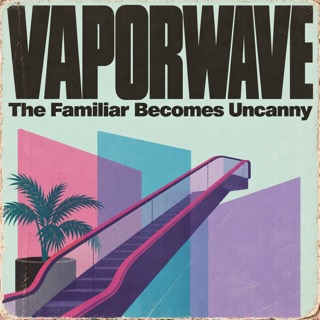
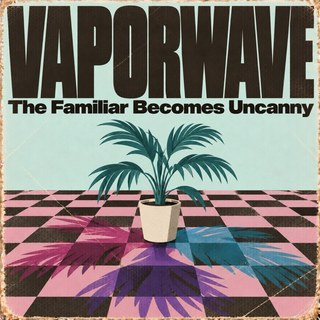
Cover art for 13 of the 15 new playlists
Read off the images themselves, which arrived as UUID filenames, and
named to the set's hyphenated convention: alternative-r-and-b, pluggnb,
phonk, ukg-jungle-pop-revival, trap-metal, drift-phonk, rage,
vaporwave, plugg, trap-soul, alte, sigilkore, brazilian-phonk.

Resized 640 to 320 to match every other cover in art/, and kept to the
set's weight: 23-33KB against an existing median of 35KB and max of
47KB. The page already loads 300 of these, so a batch at four times
the weight would have been felt.

Vaporwave is a replacement rather than a gap: it had the escalator
rendition and this batch carries the checkerboard one. The old file is
in git history if it was the keeper.

Playlisted styles without art drop from 20 to 8. Lo-fi Indie and
Future Funk are the two from the last batch still missing, alongside
Detroit Techno, Krautrock, Rock and Roll, Roots Rock, Latin Rock and
2 Tone.

Every cover was opened in a browser and confirmed loading at 320px in
the panel, rather than trusting the file copy.

Claude-Session: https://claude.ai/code/session_019QvCWpmvb1GAnVxWrsvr8q

diff --git a/index.html b/index.html
@@ -1641,7 +1641,7 @@ const DESC = {"synthpunk":"The guitar handed over to a cheap synthesiser, the sa
 "jangle":"Guitars that chime rather than crunch, Rickenbackers and melody over modest arrangements.",
 "nyhc":"New York hardcore, heavier and slower than its peers with a street-level crew mentality.",
 "speedmetal":"Metal played at the limit, precise fast riffing without thrash's abrasiveness."};
-const COVER = {"broadway":"musical_theater","tinpan":"popular_song","retro_soul":"soul_now","worldbeat":"global_music","newjerk":"jerk","electro":"electro","oldschool":"old-school-hip-hop","chiptune":"chiptune","christianhh":"christian-hip-hop","conscious":"conscious-hip-hop","electroclash":"electroclash","freestyle":"freestyle","golden":"golden-age-hip-hop","hardcore_hh":"hardcore-hip-hop","idm":"idm","kpop":"k-pop","miamibass":"miami-bass","njs":"new-jack-swing","newschool":"new-school-hip-hop","ragga":"ragga-digital-dancehall","raprock":"rap-rock","synthpunk":"synth-punk","altmetal":"alternative-metal","crossover":"crossover-thrash","deathmetal":"death-metal","doom":"doom-metal","funkmetal":"funk-metal","glammetal":"glam-metal","grind":"grindcore","groove":"groove-metal","industrial_metal":"industrial-metal","post_metal":"post-metal","powermetal":"power-metal","sludge":"sludge-metal","speedmetal":"speed-metal","heavymetal":"heavy-metal","anarcho":"anarcho-punk","arena":"arena-rock-aor","bachata":"bachata","bedroompop":"bedroom-pop","bossa":"bossa-nova","chachacha":"cha-cha-cha","citypop":"city-pop","corrido":"corrido","countryrock":"country-rock","cowpunk":"cowpunk","dancepunk":"dance-punk","danzon":"danzon","darkwave":"darkwave","easycore":"easycore","egg_punk":"egg-punk","emo_revival":"emo-revival","frat":"frat-rock","garage_revival":"garage-rock-revival","glam":"glam-rock","gogo":"go-go","grungegaze":"grungegaze","heartland":"heartland-rock","indietronica":"indietronica","industrial_rock":"industrial-rock","boogaloo":"latin-boogaloo","mambo":"mambo","merseybeat":"merseybeat","minneapolis":"minneapolis-sound","modern_funk":"modern-funk","neopsych":"neo-psychedelia","nerdcore":"nerdcore","oi":"oi-street-punk","pfunk":"p-funk","paisley":"paisley-underground","postdisco":"post-disco-boogie","postpunk_revival":"post-punk-revival","psych_soul":"psychedelic-soul","rockabilly":"rockabilly","salsa":"salsa","skatepunk":"skate-punk","skiffle":"skiffle","softrock":"soft-rock","son":"son-cubano","surf":"surf-rock","electrofunk":"synth-funk","tropicalia":"tropicalia","twotone":"2-tone","acidjazz":"acid-jazz","afrocuban_jazz":"afro-cuban-jazz","altcountry":"alt-country","altpop":"alt-pop","americana":"americana","antifolk":"anti-folk","appalachian":"appalachian-folk","artrock":"art-rock","baroquepop":"baroque-pop","bebop":"bebop","blueeyed":"blue-eyed-soul","bluesrock":"blues-rock","british_blues":"british-blues","invasion":"british-invasion","brocountry":"bro-country","chamberpop":"chamber-pop","chicago_blues":"chicago-blues","chicago_soul":"chicago-soul","chillwave":"chillwave","cool":"cool-jazz","blues":"country-blues","countrypop":"country-pop","countrytrap":"country-trap","countrypolitan":"countrypolitan","crunkcore":"crunkcore-scene","delta":"delta-blues","digicore":"digicore","blues_revival":"electric-blues-revival","texas_blues":"electric-texas-blues","electropop":"electropop","emopop":"emo-pop","emorap":"emo-rap","folkrevival":"folk-revival","folkrock":"folk-rock","freakfolk":"freak-folk","freejazz":"free-jazz","gospel":"gospel","hardbop":"hard-bop","hardrock":"hard-rock","honkytonk":"honky-tonk","hyperpop":"hyperpop","hypnagogic":"hypnagogic-pop","indiefolk":"indie-folk","indiepop":"indie-pop","jamband":"jam-band","jamgrass":"jamgrass","jazzfunk":"jazz-funk","fusion":"jazz-fusion","jerk":"jerkin","loft":"loft-jazz","modal":"modal-jazz","nashville":"nashville-sound","neobop":"neo-bop-young-lions","neotrad":"neotraditional-country","jazz_new":"new-jazz-crossover","jazz_early":"new-orleans-jazz","nowave":"no-wave","noisepop":"noise-pop","nwobhm":"nwobhm","oldtime":"old-time-hillbilly","outlaw":"outlaw-country","poppunk":"pop-punk","postbop":"post-bop","prog":"prog-rock","newgrass":"progressive-bluegrass-newgrass","psychfolk":"psychedelic-folk","psych_rock":"psychedelic-rock","psychobilly":"psychobilly","quiet_storm":"quiet-storm","redirt":"red-dirt","newoutlaw":"red-dirt-revival-new-outlaw","reggae":"reggae","riotgrrrl":"riot-grrrl","singer_songwriter":"singer-songwriter","slowcore":"slowcore","smoothjazz":"smooth-jazz","soul_blues":"soul-blues","souljazz":"soul-jazz","scrap":"soundcloud-rap","southern_rock":"southern-rock","stompclap":"stomp-clap-folk-pop","swamp_blues":"swamp-blues","swing":"swing-big-band","neoswing":"swing-revival","synthpop":"synth-pop","texascountry":"texas-country","thirdstream":"third-stream","skapunk":"third-wave-ska","thrash":"thrash-metal","folk_topical":"topical-folk","urbancowboy":"urban-cowboy","westcoast_jazz":"west-coast-jazz","western_swing":"western-swing","yacht":"yacht-rock","zoomergaze":"zoomergaze","alt_hh":"alternative-hip-hop","altrock":"alternative-rock","bluegrass":"bluegrass","cloudrap":"cloud-rap","college":"college-rock","dancehall":"dancehall","disco":"disco","dreampop":"dream-pop","dub":"dub","emo":"emo","funk":"funk","gangsta":"gangsta-rap","garage":"garage-rock","grunge":"grunge","hardcore":"hardcore","house":"house","jazzrap":"jazz-rap","mathrock":"math-rock","mento":"mento","midwestemo":"midwest-emo","newwave":"new-wave","noiserock":"noise-rock","numetal":"nu-metal","posthc":"post-hardcore","postpunk":"post-punk","powerpop":"power-pop","progmetal":"prog-metal","punk":"punk","rocksteady":"rocksteady","shoegaze":"shoegaze","soul":"soul","southern_hh":"southern-hip-hop","southern_soul":"southern-soul","trap":"trap","underground":"underground-backpack-rap","ambient":"ambient","bakersfield":"bakersfield-sound","balada":"balada","bolero":"bolero","britpop":"britpop","chicano_rock":"chicano-rock","conjunto":"conjunto-texas-mexican","contemp_rnb":"contemporary-r-and-b","cumbia":"cumbia","indierock":"indie-rock","latinpop":"latin-pop","modernclassical":"modern-classical","motown":"motown","philly":"philly-soul","postrock":"post-rock","ragtime":"ragtime","ranchera":"ranchera-mariachi","ska":"ska","vaporwave":"vaporwave"};
+const COVER = {"brphonk":"brazilian-phonk","sigilkore":"sigilkore","alte":"alte","trapsoul":"trap-soul","plugg":"plugg","rage":"rage","driftphonk":"drift-phonk","trap_metal":"trap-metal","ukgpop":"ukg-jungle-pop-revival","phonk":"phonk","pluggnb":"pluggnb","altrnb":"alternative-r-and-b","broadway":"musical_theater","tinpan":"popular_song","retro_soul":"soul_now","worldbeat":"global_music","newjerk":"jerk","electro":"electro","oldschool":"old-school-hip-hop","chiptune":"chiptune","christianhh":"christian-hip-hop","conscious":"conscious-hip-hop","electroclash":"electroclash","freestyle":"freestyle","golden":"golden-age-hip-hop","hardcore_hh":"hardcore-hip-hop","idm":"idm","kpop":"k-pop","miamibass":"miami-bass","njs":"new-jack-swing","newschool":"new-school-hip-hop","ragga":"ragga-digital-dancehall","raprock":"rap-rock","synthpunk":"synth-punk","altmetal":"alternative-metal","crossover":"crossover-thrash","deathmetal":"death-metal","doom":"doom-metal","funkmetal":"funk-metal","glammetal":"glam-metal","grind":"grindcore","groove":"groove-metal","industrial_metal":"industrial-metal","post_metal":"post-metal","powermetal":"power-metal","sludge":"sludge-metal","speedmetal":"speed-metal","heavymetal":"heavy-metal","anarcho":"anarcho-punk","arena":"arena-rock-aor","bachata":"bachata","bedroompop":"bedroom-pop","bossa":"bossa-nova","chachacha":"cha-cha-cha","citypop":"city-pop","corrido":"corrido","countryrock":"country-rock","cowpunk":"cowpunk","dancepunk":"dance-punk","danzon":"danzon","darkwave":"darkwave","easycore":"easycore","egg_punk":"egg-punk","emo_revival":"emo-revival","frat":"frat-rock","garage_revival":"garage-rock-revival","glam":"glam-rock","gogo":"go-go","grungegaze":"grungegaze","heartland":"heartland-rock","indietronica":"indietronica","industrial_rock":"industrial-rock","boogaloo":"latin-boogaloo","mambo":"mambo","merseybeat":"merseybeat","minneapolis":"minneapolis-sound","modern_funk":"modern-funk","neopsych":"neo-psychedelia","nerdcore":"nerdcore","oi":"oi-street-punk","pfunk":"p-funk","paisley":"paisley-underground","postdisco":"post-disco-boogie","postpunk_revival":"post-punk-revival","psych_soul":"psychedelic-soul","rockabilly":"rockabilly","salsa":"salsa","skatepunk":"skate-punk","skiffle":"skiffle","softrock":"soft-rock","son":"son-cubano","surf":"surf-rock","electrofunk":"synth-funk","tropicalia":"tropicalia","twotone":"2-tone","acidjazz":"acid-jazz","afrocuban_jazz":"afro-cuban-jazz","altcountry":"alt-country","altpop":"alt-pop","americana":"americana","antifolk":"anti-folk","appalachian":"appalachian-folk","artrock":"art-rock","baroquepop":"baroque-pop","bebop":"bebop","blueeyed":"blue-eyed-soul","bluesrock":"blues-rock","british_blues":"british-blues","invasion":"british-invasion","brocountry":"bro-country","chamberpop":"chamber-pop","chicago_blues":"chicago-blues","chicago_soul":"chicago-soul","chillwave":"chillwave","cool":"cool-jazz","blues":"country-blues","countrypop":"country-pop","countrytrap":"country-trap","countrypolitan":"countrypolitan","crunkcore":"crunkcore-scene","delta":"delta-blues","digicore":"digicore","blues_revival":"electric-blues-revival","texas_blues":"electric-texas-blues","electropop":"electropop","emopop":"emo-pop","emorap":"emo-rap","folkrevival":"folk-revival","folkrock":"folk-rock","freakfolk":"freak-folk","freejazz":"free-jazz","gospel":"gospel","hardbop":"hard-bop","hardrock":"hard-rock","honkytonk":"honky-tonk","hyperpop":"hyperpop","hypnagogic":"hypnagogic-pop","indiefolk":"indie-folk","indiepop":"indie-pop","jamband":"jam-band","jamgrass":"jamgrass","jazzfunk":"jazz-funk","fusion":"jazz-fusion","jerk":"jerkin","loft":"loft-jazz","modal":"modal-jazz","nashville":"nashville-sound","neobop":"neo-bop-young-lions","neotrad":"neotraditional-country","jazz_new":"new-jazz-crossover","jazz_early":"new-orleans-jazz","nowave":"no-wave","noisepop":"noise-pop","nwobhm":"nwobhm","oldtime":"old-time-hillbilly","outlaw":"outlaw-country","poppunk":"pop-punk","postbop":"post-bop","prog":"prog-rock","newgrass":"progressive-bluegrass-newgrass","psychfolk":"psychedelic-folk","psych_rock":"psychedelic-rock","psychobilly":"psychobilly","quiet_storm":"quiet-storm","redirt":"red-dirt","newoutlaw":"red-dirt-revival-new-outlaw","reggae":"reggae","riotgrrrl":"riot-grrrl","singer_songwriter":"singer-songwriter","slowcore":"slowcore","smoothjazz":"smooth-jazz","soul_blues":"soul-blues","souljazz":"soul-jazz","scrap":"soundcloud-rap","southern_rock":"southern-rock","stompclap":"stomp-clap-folk-pop","swamp_blues":"swamp-blues","swing":"swing-big-band","neoswing":"swing-revival","synthpop":"synth-pop","texascountry":"texas-country","thirdstream":"third-stream","skapunk":"third-wave-ska","thrash":"thrash-metal","folk_topical":"topical-folk","urbancowboy":"urban-cowboy","westcoast_jazz":"west-coast-jazz","western_swing":"western-swing","yacht":"yacht-rock","zoomergaze":"zoomergaze","alt_hh":"alternative-hip-hop","altrock":"alternative-rock","bluegrass":"bluegrass","cloudrap":"cloud-rap","college":"college-rock","dancehall":"dancehall","disco":"disco","dreampop":"dream-pop","dub":"dub","emo":"emo","funk":"funk","gangsta":"gangsta-rap","garage":"garage-rock","grunge":"grunge","hardcore":"hardcore","house":"house","jazzrap":"jazz-rap","mathrock":"math-rock","mento":"mento","midwestemo":"midwest-emo","newwave":"new-wave","noiserock":"noise-rock","numetal":"nu-metal","posthc":"post-hardcore","postpunk":"post-punk","powerpop":"power-pop","progmetal":"prog-metal","punk":"punk","rocksteady":"rocksteady","shoegaze":"shoegaze","soul":"soul","southern_hh":"southern-hip-hop","southern_soul":"southern-soul","trap":"trap","underground":"underground-backpack-rap","ambient":"ambient","bakersfield":"bakersfield-sound","balada":"balada","bolero":"bolero","britpop":"britpop","chicano_rock":"chicano-rock","conjunto":"conjunto-texas-mexican","contemp_rnb":"contemporary-r-and-b","cumbia":"cumbia","indierock":"indie-rock","latinpop":"latin-pop","modernclassical":"modern-classical","motown":"motown","philly":"philly-soul","postrock":"post-rock","ragtime":"ragtime","ranchera":"ranchera-mariachi","ska":"ska","vaporwave":"vaporwave"};
 const PTITLE = {"ukgpop":"80.11 UKG / JUNGLE-POP REVIVAL · The Bedroom Finds the Breakbeat","vaporwave":"80.05 VAPORWAVE · The Familiar Becomes Uncanny","futurefunk":"80.06 FUTURE FUNK · The Loop Finds Its Feet","trap_metal":"45.13 TRAP METAL · The Voice Breaks the Speaker","rage":"45.04.1.2 RAGE · The Synth Becomes the Crowd","sigilkore":"45.12 SIGILKORE · The Voice Becomes a Haunted File","brphonk":"72.23 BRAZILIAN PHONK · The Loop Changes Its Accent","driftphonk":"45.11.1 DRIFT PHONK · The Cowbell Takes the Wheel","phonk":"45.11 PHONK · The Tape Becomes a New Memory","pluggnb":"45.10.1 PLUGGNB · The Loop Learns to Yearn","plugg":"45.10 PLUGG · Small Bells Carry Heavy Bass","alte":"72.22 ALTÉ · The Groove Leaves Room to Wander","trapsoul":"41.05.1 TRAP SOUL · The Confession Finds a Pocket","altrnb":"41.05 ALTERNATIVE R&B · The Voice Changes the Room","lofi":"44.02.1.2 LO-FI INDIE · Small Sound, Large Imagination","jerk":"45.09 JERKIN’ · The Beat Leaves Room for the Feet","chiptune":"80.10 CHIPTUNE · Small Chips, Big Melodies","electroclash":"80.09 ELECTROCLASH · Cold Machines, Exaggerated Attitudes","kpop":"72.21 K-POP · The Song Changes Rooms","idm":"80.08 IDM · The Beat Becomes a Puzzle","njs":"41.04 NEW JACK SWING · The Soul Singer Rides the Rap Beat","raprock":"42.18 RAP ROCK · The Rhyme Locks Into the Riff","hardcore_hh":"45.08.2 HARDCORE HIP HOP · The Voice Hits Like a Drum","golden":"45.08.1 GOLDEN-AGE HIP HOP · The Sample Opens a World","ragga":"71.01.1.1.1.2.1 RAGGA / DIGITAL DANCEHALL · A Small Keyboard Changes the Riddim","miamibass":"80.07.1 MIAMI BASS · The Low End Moves the Crowd","christianhh":"60.01 CHRISTIAN HIP HOP · Faith Finds a Flow","freestyle":"72.20 FREESTYLE · Heartbreak Moves to the Dance Floor","newschool":"45.08 NEW-SCHOOL HIP HOP · Fewer Sounds, Harder Rhymes","electro":"80.07 ELECTRO · The Machine Learns to Breakdance","conscious":"45.07 CONSCIOUS HIP HOP · The Verse Makes an Argument","oldschool":"45.06 OLD-SCHOOL HIP HOP · The Party Finds Its Voice","heavymetal":"43.04 HEAVY METAL · Weight Becomes a Language","son":"72.02 SON CUBANO · The Chorus Opens the Song","mambo":"72.03 MAMBO · The Big Band Learns the Clave","chachacha":"72.04 CHA-CHA-CHÁ · The Melody Makes Room for the Feet","boogaloo":"72.05 LATIN BOOGALOO · The Neighborhood Sings Back","salsa":"72.06 SALSA · The Chorus Hands the Singer a World","bachata":"72.07 BACHATA · The Guitar Answers the Heart","bossa":"72.08 BOSSA NOVA · Quiet Singing Changes the Rhythm","tropicalia":"72.09 TROPICÁLIA · The Song Swallows the World","danzon":"72.10 DANZÓN · The Pause Belongs to the Dance","corrido":"72.11 CORRIDO · The Verse Carries the News","ranchera":"72.12 RANCHERA / MARIACHI · The Voice Holds Its Ground","chicano_rock":"72.13 CHICANO ROCK · The Neighborhood Rewrites the Backbeat","conjunto":"72.14 CONJUNTO (TEXAS-MEXICAN) · Two Instruments Build a Dance Floor","cumbia":"72.15 CUMBIA · The Rhythm Travels Without Losing Its Step","bolero":"72.16 BOLERO · A Quiet Pulse Holds a Large Feeling","balada":"72.17 BALADA · The Arrangement Makes the Confession","latin_rock":"72.18 LATIN ROCK · The Guitar Enters the Rhythm Section","latinpop":"72.19 LATIN POP · The Big Feeling Finds a New Beat"};
 const FAMSKIN = {"exp":["#45484C","#EDE4D1","#EDE4D1"],"latin":["#1A5038","#EDE4D1","#EDE4D1"],"gospel":["#373c1c","#ede4d1","#ede4d1"],"folk":["#483716","#ede4d1","#ede4d1"],"jazz":["#4c2f63","#ede4d1","#ede4d1"],"pop":["#711e1f","#ede4d1","#ede4d1"],"global":["#17413e","#ede4d1","#ede4d1"],"blues":["#1f3a6e","#ede4d1","#ede4d1"],"country":["#45382b","#ede4d1","#ede4d1"],"carib":["#1b422e","#ede4d1","#ede4d1"],"rock":["#1e1c1a","#ede4d1","#ede4d1"],"soul":["#68233e","#ede4d1","#ede4d1"],"alt":["#1e1c1a","#ede4d1","#c9c24a"],"hiphop":["#1e1c1a","#ede4d1","#e8b84a"],"metal":["#0e0d0c","#ede4d1","#d8463b"],"elec":["#124A57","#EDE4D1","#EDE4D1"]};
 const FAMMAP = {"exp":"#bac5d5","latin":"#2fa984","gospel":"#879c5d","folk":"#cf9944","jazz":"#c797fd","pop":"#ff9ea7","global":"#6cbda9","blues":"#79a1fc","country":"#bb7b56","carib":"#7ad689","rock":"#bdae9e","soul":"#e77ab5","alt":"#bac03d","hiphop":"#f3c443","metal":"#dc604a","elec":"#19c4ec"};

diff --git a/src/data.js b/src/data.js
@@ -796,7 +796,7 @@ const DESC = {"synthpunk":"The guitar handed over to a cheap synthesiser, the sa
 "jangle":"Guitars that chime rather than crunch, Rickenbackers and melody over modest arrangements.",
 "nyhc":"New York hardcore, heavier and slower than its peers with a street-level crew mentality.",
 "speedmetal":"Metal played at the limit, precise fast riffing without thrash's abrasiveness."};
-const COVER = {"broadway":"musical_theater","tinpan":"popular_song","retro_soul":"soul_now","worldbeat":"global_music","newjerk":"jerk","electro":"electro","oldschool":"old-school-hip-hop","chiptune":"chiptune","christianhh":"christian-hip-hop","conscious":"conscious-hip-hop","electroclash":"electroclash","freestyle":"freestyle","golden":"golden-age-hip-hop","hardcore_hh":"hardcore-hip-hop","idm":"idm","kpop":"k-pop","miamibass":"miami-bass","njs":"new-jack-swing","newschool":"new-school-hip-hop","ragga":"ragga-digital-dancehall","raprock":"rap-rock","synthpunk":"synth-punk","altmetal":"alternative-metal","crossover":"crossover-thrash","deathmetal":"death-metal","doom":"doom-metal","funkmetal":"funk-metal","glammetal":"glam-metal","grind":"grindcore","groove":"groove-metal","industrial_metal":"industrial-metal","post_metal":"post-metal","powermetal":"power-metal","sludge":"sludge-metal","speedmetal":"speed-metal","heavymetal":"heavy-metal","anarcho":"anarcho-punk","arena":"arena-rock-aor","bachata":"bachata","bedroompop":"bedroom-pop","bossa":"bossa-nova","chachacha":"cha-cha-cha","citypop":"city-pop","corrido":"corrido","countryrock":"country-rock","cowpunk":"cowpunk","dancepunk":"dance-punk","danzon":"danzon","darkwave":"darkwave","easycore":"easycore","egg_punk":"egg-punk","emo_revival":"emo-revival","frat":"frat-rock","garage_revival":"garage-rock-revival","glam":"glam-rock","gogo":"go-go","grungegaze":"grungegaze","heartland":"heartland-rock","indietronica":"indietronica","industrial_rock":"industrial-rock","boogaloo":"latin-boogaloo","mambo":"mambo","merseybeat":"merseybeat","minneapolis":"minneapolis-sound","modern_funk":"modern-funk","neopsych":"neo-psychedelia","nerdcore":"nerdcore","oi":"oi-street-punk","pfunk":"p-funk","paisley":"paisley-underground","postdisco":"post-disco-boogie","postpunk_revival":"post-punk-revival","psych_soul":"psychedelic-soul","rockabilly":"rockabilly","salsa":"salsa","skatepunk":"skate-punk","skiffle":"skiffle","softrock":"soft-rock","son":"son-cubano","surf":"surf-rock","electrofunk":"synth-funk","tropicalia":"tropicalia","twotone":"2-tone","acidjazz":"acid-jazz","afrocuban_jazz":"afro-cuban-jazz","altcountry":"alt-country","altpop":"alt-pop","americana":"americana","antifolk":"anti-folk","appalachian":"appalachian-folk","artrock":"art-rock","baroquepop":"baroque-pop","bebop":"bebop","blueeyed":"blue-eyed-soul","bluesrock":"blues-rock","british_blues":"british-blues","invasion":"british-invasion","brocountry":"bro-country","chamberpop":"chamber-pop","chicago_blues":"chicago-blues","chicago_soul":"chicago-soul","chillwave":"chillwave","cool":"cool-jazz","blues":"country-blues","countrypop":"country-pop","countrytrap":"country-trap","countrypolitan":"countrypolitan","crunkcore":"crunkcore-scene","delta":"delta-blues","digicore":"digicore","blues_revival":"electric-blues-revival","texas_blues":"electric-texas-blues","electropop":"electropop","emopop":"emo-pop","emorap":"emo-rap","folkrevival":"folk-revival","folkrock":"folk-rock","freakfolk":"freak-folk","freejazz":"free-jazz","gospel":"gospel","hardbop":"hard-bop","hardrock":"hard-rock","honkytonk":"honky-tonk","hyperpop":"hyperpop","hypnagogic":"hypnagogic-pop","indiefolk":"indie-folk","indiepop":"indie-pop","jamband":"jam-band","jamgrass":"jamgrass","jazzfunk":"jazz-funk","fusion":"jazz-fusion","jerk":"jerkin","loft":"loft-jazz","modal":"modal-jazz","nashville":"nashville-sound","neobop":"neo-bop-young-lions","neotrad":"neotraditional-country","jazz_new":"new-jazz-crossover","jazz_early":"new-orleans-jazz","nowave":"no-wave","noisepop":"noise-pop","nwobhm":"nwobhm","oldtime":"old-time-hillbilly","outlaw":"outlaw-country","poppunk":"pop-punk","postbop":"post-bop","prog":"prog-rock","newgrass":"progressive-bluegrass-newgrass","psychfolk":"psychedelic-folk","psych_rock":"psychedelic-rock","psychobilly":"psychobilly","quiet_storm":"quiet-storm","redirt":"red-dirt","newoutlaw":"red-dirt-revival-new-outlaw","reggae":"reggae","riotgrrrl":"riot-grrrl","singer_songwriter":"singer-songwriter","slowcore":"slowcore","smoothjazz":"smooth-jazz","soul_blues":"soul-blues","souljazz":"soul-jazz","scrap":"soundcloud-rap","southern_rock":"southern-rock","stompclap":"stomp-clap-folk-pop","swamp_blues":"swamp-blues","swing":"swing-big-band","neoswing":"swing-revival","synthpop":"synth-pop","texascountry":"texas-country","thirdstream":"third-stream","skapunk":"third-wave-ska","thrash":"thrash-metal","folk_topical":"topical-folk","urbancowboy":"urban-cowboy","westcoast_jazz":"west-coast-jazz","western_swing":"western-swing","yacht":"yacht-rock","zoomergaze":"zoomergaze","alt_hh":"alternative-hip-hop","altrock":"alternative-rock","bluegrass":"bluegrass","cloudrap":"cloud-rap","college":"college-rock","dancehall":"dancehall","disco":"disco","dreampop":"dream-pop","dub":"dub","emo":"emo","funk":"funk","gangsta":"gangsta-rap","garage":"garage-rock","grunge":"grunge","hardcore":"hardcore","house":"house","jazzrap":"jazz-rap","mathrock":"math-rock","mento":"mento","midwestemo":"midwest-emo","newwave":"new-wave","noiserock":"noise-rock","numetal":"nu-metal","posthc":"post-hardcore","postpunk":"post-punk","powerpop":"power-pop","progmetal":"prog-metal","punk":"punk","rocksteady":"rocksteady","shoegaze":"shoegaze","soul":"soul","southern_hh":"southern-hip-hop","southern_soul":"southern-soul","trap":"trap","underground":"underground-backpack-rap","ambient":"ambient","bakersfield":"bakersfield-sound","balada":"balada","bolero":"bolero","britpop":"britpop","chicano_rock":"chicano-rock","conjunto":"conjunto-texas-mexican","contemp_rnb":"contemporary-r-and-b","cumbia":"cumbia","indierock":"indie-rock","latinpop":"latin-pop","modernclassical":"modern-classical","motown":"motown","philly":"philly-soul","postrock":"post-rock","ragtime":"ragtime","ranchera":"ranchera-mariachi","ska":"ska","vaporwave":"vaporwave"};
+const COVER = {"brphonk":"brazilian-phonk","sigilkore":"sigilkore","alte":"alte","trapsoul":"trap-soul","plugg":"plugg","rage":"rage","driftphonk":"drift-phonk","trap_metal":"trap-metal","ukgpop":"ukg-jungle-pop-revival","phonk":"phonk","pluggnb":"pluggnb","altrnb":"alternative-r-and-b","broadway":"musical_theater","tinpan":"popular_song","retro_soul":"soul_now","worldbeat":"global_music","newjerk":"jerk","electro":"electro","oldschool":"old-school-hip-hop","chiptune":"chiptune","christianhh":"christian-hip-hop","conscious":"conscious-hip-hop","electroclash":"electroclash","freestyle":"freestyle","golden":"golden-age-hip-hop","hardcore_hh":"hardcore-hip-hop","idm":"idm","kpop":"k-pop","miamibass":"miami-bass","njs":"new-jack-swing","newschool":"new-school-hip-hop","ragga":"ragga-digital-dancehall","raprock":"rap-rock","synthpunk":"synth-punk","altmetal":"alternative-metal","crossover":"crossover-thrash","deathmetal":"death-metal","doom":"doom-metal","funkmetal":"funk-metal","glammetal":"glam-metal","grind":"grindcore","groove":"groove-metal","industrial_metal":"industrial-metal","post_metal":"post-metal","powermetal":"power-metal","sludge":"sludge-metal","speedmetal":"speed-metal","heavymetal":"heavy-metal","anarcho":"anarcho-punk","arena":"arena-rock-aor","bachata":"bachata","bedroompop":"bedroom-pop","bossa":"bossa-nova","chachacha":"cha-cha-cha","citypop":"city-pop","corrido":"corrido","countryrock":"country-rock","cowpunk":"cowpunk","dancepunk":"dance-punk","danzon":"danzon","darkwave":"darkwave","easycore":"easycore","egg_punk":"egg-punk","emo_revival":"emo-revival","frat":"frat-rock","garage_revival":"garage-rock-revival","glam":"glam-rock","gogo":"go-go","grungegaze":"grungegaze","heartland":"heartland-rock","indietronica":"indietronica","industrial_rock":"industrial-rock","boogaloo":"latin-boogaloo","mambo":"mambo","merseybeat":"merseybeat","minneapolis":"minneapolis-sound","modern_funk":"modern-funk","neopsych":"neo-psychedelia","nerdcore":"nerdcore","oi":"oi-street-punk","pfunk":"p-funk","paisley":"paisley-underground","postdisco":"post-disco-boogie","postpunk_revival":"post-punk-revival","psych_soul":"psychedelic-soul","rockabilly":"rockabilly","salsa":"salsa","skatepunk":"skate-punk","skiffle":"skiffle","softrock":"soft-rock","son":"son-cubano","surf":"surf-rock","electrofunk":"synth-funk","tropicalia":"tropicalia","twotone":"2-tone","acidjazz":"acid-jazz","afrocuban_jazz":"afro-cuban-jazz","altcountry":"alt-country","altpop":"alt-pop","americana":"americana","antifolk":"anti-folk","appalachian":"appalachian-folk","artrock":"art-rock","baroquepop":"baroque-pop","bebop":"bebop","blueeyed":"blue-eyed-soul","bluesrock":"blues-rock","british_blues":"british-blues","invasion":"british-invasion","brocountry":"bro-country","chamberpop":"chamber-pop","chicago_blues":"chicago-blues","chicago_soul":"chicago-soul","chillwave":"chillwave","cool":"cool-jazz","blues":"country-blues","countrypop":"country-pop","countrytrap":"country-trap","countrypolitan":"countrypolitan","crunkcore":"crunkcore-scene","delta":"delta-blues","digicore":"digicore","blues_revival":"electric-blues-revival","texas_blues":"electric-texas-blues","electropop":"electropop","emopop":"emo-pop","emorap":"emo-rap","folkrevival":"folk-revival","folkrock":"folk-rock","freakfolk":"freak-folk","freejazz":"free-jazz","gospel":"gospel","hardbop":"hard-bop","hardrock":"hard-rock","honkytonk":"honky-tonk","hyperpop":"hyperpop","hypnagogic":"hypnagogic-pop","indiefolk":"indie-folk","indiepop":"indie-pop","jamband":"jam-band","jamgrass":"jamgrass","jazzfunk":"jazz-funk","fusion":"jazz-fusion","jerk":"jerkin","loft":"loft-jazz","modal":"modal-jazz","nashville":"nashville-sound","neobop":"neo-bop-young-lions","neotrad":"neotraditional-country","jazz_new":"new-jazz-crossover","jazz_early":"new-orleans-jazz","nowave":"no-wave","noisepop":"noise-pop","nwobhm":"nwobhm","oldtime":"old-time-hillbilly","outlaw":"outlaw-country","poppunk":"pop-punk","postbop":"post-bop","prog":"prog-rock","newgrass":"progressive-bluegrass-newgrass","psychfolk":"psychedelic-folk","psych_rock":"psychedelic-rock","psychobilly":"psychobilly","quiet_storm":"quiet-storm","redirt":"red-dirt","newoutlaw":"red-dirt-revival-new-outlaw","reggae":"reggae","riotgrrrl":"riot-grrrl","singer_songwriter":"singer-songwriter","slowcore":"slowcore","smoothjazz":"smooth-jazz","soul_blues":"soul-blues","souljazz":"soul-jazz","scrap":"soundcloud-rap","southern_rock":"southern-rock","stompclap":"stomp-clap-folk-pop","swamp_blues":"swamp-blues","swing":"swing-big-band","neoswing":"swing-revival","synthpop":"synth-pop","texascountry":"texas-country","thirdstream":"third-stream","skapunk":"third-wave-ska","thrash":"thrash-metal","folk_topical":"topical-folk","urbancowboy":"urban-cowboy","westcoast_jazz":"west-coast-jazz","western_swing":"western-swing","yacht":"yacht-rock","zoomergaze":"zoomergaze","alt_hh":"alternative-hip-hop","altrock":"alternative-rock","bluegrass":"bluegrass","cloudrap":"cloud-rap","college":"college-rock","dancehall":"dancehall","disco":"disco","dreampop":"dream-pop","dub":"dub","emo":"emo","funk":"funk","gangsta":"gangsta-rap","garage":"garage-rock","grunge":"grunge","hardcore":"hardcore","house":"house","jazzrap":"jazz-rap","mathrock":"math-rock","mento":"mento","midwestemo":"midwest-emo","newwave":"new-wave","noiserock":"noise-rock","numetal":"nu-metal","posthc":"post-hardcore","postpunk":"post-punk","powerpop":"power-pop","progmetal":"prog-metal","punk":"punk","rocksteady":"rocksteady","shoegaze":"shoegaze","soul":"soul","southern_hh":"southern-hip-hop","southern_soul":"southern-soul","trap":"trap","underground":"underground-backpack-rap","ambient":"ambient","bakersfield":"bakersfield-sound","balada":"balada","bolero":"bolero","britpop":"britpop","chicano_rock":"chicano-rock","conjunto":"conjunto-texas-mexican","contemp_rnb":"contemporary-r-and-b","cumbia":"cumbia","indierock":"indie-rock","latinpop":"latin-pop","modernclassical":"modern-classical","motown":"motown","philly":"philly-soul","postrock":"post-rock","ragtime":"ragtime","ranchera":"ranchera-mariachi","ska":"ska","vaporwave":"vaporwave"};
 const PTITLE = {"ukgpop":"80.11 UKG / JUNGLE-POP REVIVAL · The Bedroom Finds the Breakbeat","vaporwave":"80.05 VAPORWAVE · The Familiar Becomes Uncanny","futurefunk":"80.06 FUTURE FUNK · The Loop Finds Its Feet","trap_metal":"45.13 TRAP METAL · The Voice Breaks the Speaker","rage":"45.04.1.2 RAGE · The Synth Becomes the Crowd","sigilkore":"45.12 SIGILKORE · The Voice Becomes a Haunted File","brphonk":"72.23 BRAZILIAN PHONK · The Loop Changes Its Accent","driftphonk":"45.11.1 DRIFT PHONK · The Cowbell Takes the Wheel","phonk":"45.11 PHONK · The Tape Becomes a New Memory","pluggnb":"45.10.1 PLUGGNB · The Loop Learns to Yearn","plugg":"45.10 PLUGG · Small Bells Carry Heavy Bass","alte":"72.22 ALTÉ · The Groove Leaves Room to Wander","trapsoul":"41.05.1 TRAP SOUL · The Confession Finds a Pocket","altrnb":"41.05 ALTERNATIVE R&B · The Voice Changes the Room","lofi":"44.02.1.2 LO-FI INDIE · Small Sound, Large Imagination","jerk":"45.09 JERKIN’ · The Beat Leaves Room for the Feet","chiptune":"80.10 CHIPTUNE · Small Chips, Big Melodies","electroclash":"80.09 ELECTROCLASH · Cold Machines, Exaggerated Attitudes","kpop":"72.21 K-POP · The Song Changes Rooms","idm":"80.08 IDM · The Beat Becomes a Puzzle","njs":"41.04 NEW JACK SWING · The Soul Singer Rides the Rap Beat","raprock":"42.18 RAP ROCK · The Rhyme Locks Into the Riff","hardcore_hh":"45.08.2 HARDCORE HIP HOP · The Voice Hits Like a Drum","golden":"45.08.1 GOLDEN-AGE HIP HOP · The Sample Opens a World","ragga":"71.01.1.1.1.2.1 RAGGA / DIGITAL DANCEHALL · A Small Keyboard Changes the Riddim","miamibass":"80.07.1 MIAMI BASS · The Low End Moves the Crowd","christianhh":"60.01 CHRISTIAN HIP HOP · Faith Finds a Flow","freestyle":"72.20 FREESTYLE · Heartbreak Moves to the Dance Floor","newschool":"45.08 NEW-SCHOOL HIP HOP · Fewer Sounds, Harder Rhymes","electro":"80.07 ELECTRO · The Machine Learns to Breakdance","conscious":"45.07 CONSCIOUS HIP HOP · The Verse Makes an Argument","oldschool":"45.06 OLD-SCHOOL HIP HOP · The Party Finds Its Voice","heavymetal":"43.04 HEAVY METAL · Weight Becomes a Language","son":"72.02 SON CUBANO · The Chorus Opens the Song","mambo":"72.03 MAMBO · The Big Band Learns the Clave","chachacha":"72.04 CHA-CHA-CHÁ · The Melody Makes Room for the Feet","boogaloo":"72.05 LATIN BOOGALOO · The Neighborhood Sings Back","salsa":"72.06 SALSA · The Chorus Hands the Singer a World","bachata":"72.07 BACHATA · The Guitar Answers the Heart","bossa":"72.08 BOSSA NOVA · Quiet Singing Changes the Rhythm","tropicalia":"72.09 TROPICÁLIA · The Song Swallows the World","danzon":"72.10 DANZÓN · The Pause Belongs to the Dance","corrido":"72.11 CORRIDO · The Verse Carries the News","ranchera":"72.12 RANCHERA / MARIACHI · The Voice Holds Its Ground","chicano_rock":"72.13 CHICANO ROCK · The Neighborhood Rewrites the Backbeat","conjunto":"72.14 CONJUNTO (TEXAS-MEXICAN) · Two Instruments Build a Dance Floor","cumbia":"72.15 CUMBIA · The Rhythm Travels Without Losing Its Step","bolero":"72.16 BOLERO · A Quiet Pulse Holds a Large Feeling","balada":"72.17 BALADA · The Arrangement Makes the Confession","latin_rock":"72.18 LATIN ROCK · The Guitar Enters the Rhythm Section","latinpop":"72.19 LATIN POP · The Big Feeling Finds a New Beat"};
 const FAMSKIN = {"exp":["#45484C","#EDE4D1","#EDE4D1"],"latin":["#1A5038","#EDE4D1","#EDE4D1"],"gospel":["#373c1c","#ede4d1","#ede4d1"],"folk":["#483716","#ede4d1","#ede4d1"],"jazz":["#4c2f63","#ede4d1","#ede4d1"],"pop":["#711e1f","#ede4d1","#ede4d1"],"global":["#17413e","#ede4d1","#ede4d1"],"blues":["#1f3a6e","#ede4d1","#ede4d1"],"country":["#45382b","#ede4d1","#ede4d1"],"carib":["#1b422e","#ede4d1","#ede4d1"],"rock":["#1e1c1a","#ede4d1","#ede4d1"],"soul":["#68233e","#ede4d1","#ede4d1"],"alt":["#1e1c1a","#ede4d1","#c9c24a"],"hiphop":["#1e1c1a","#ede4d1","#e8b84a"],"metal":["#0e0d0c","#ede4d1","#d8463b"],"elec":["#124A57","#EDE4D1","#EDE4D1"]};
 const FAMMAP = {"exp":"#bac5d5","latin":"#2fa984","gospel":"#879c5d","folk":"#cf9944","jazz":"#c797fd","pop":"#ff9ea7","global":"#6cbda9","blues":"#79a1fc","country":"#bb7b56","carib":"#7ad689","rock":"#bdae9e","soul":"#e77ab5","alt":"#bac03d","hiphop":"#f3c443","metal":"#dc604a","elec":"#19c4ec"};
